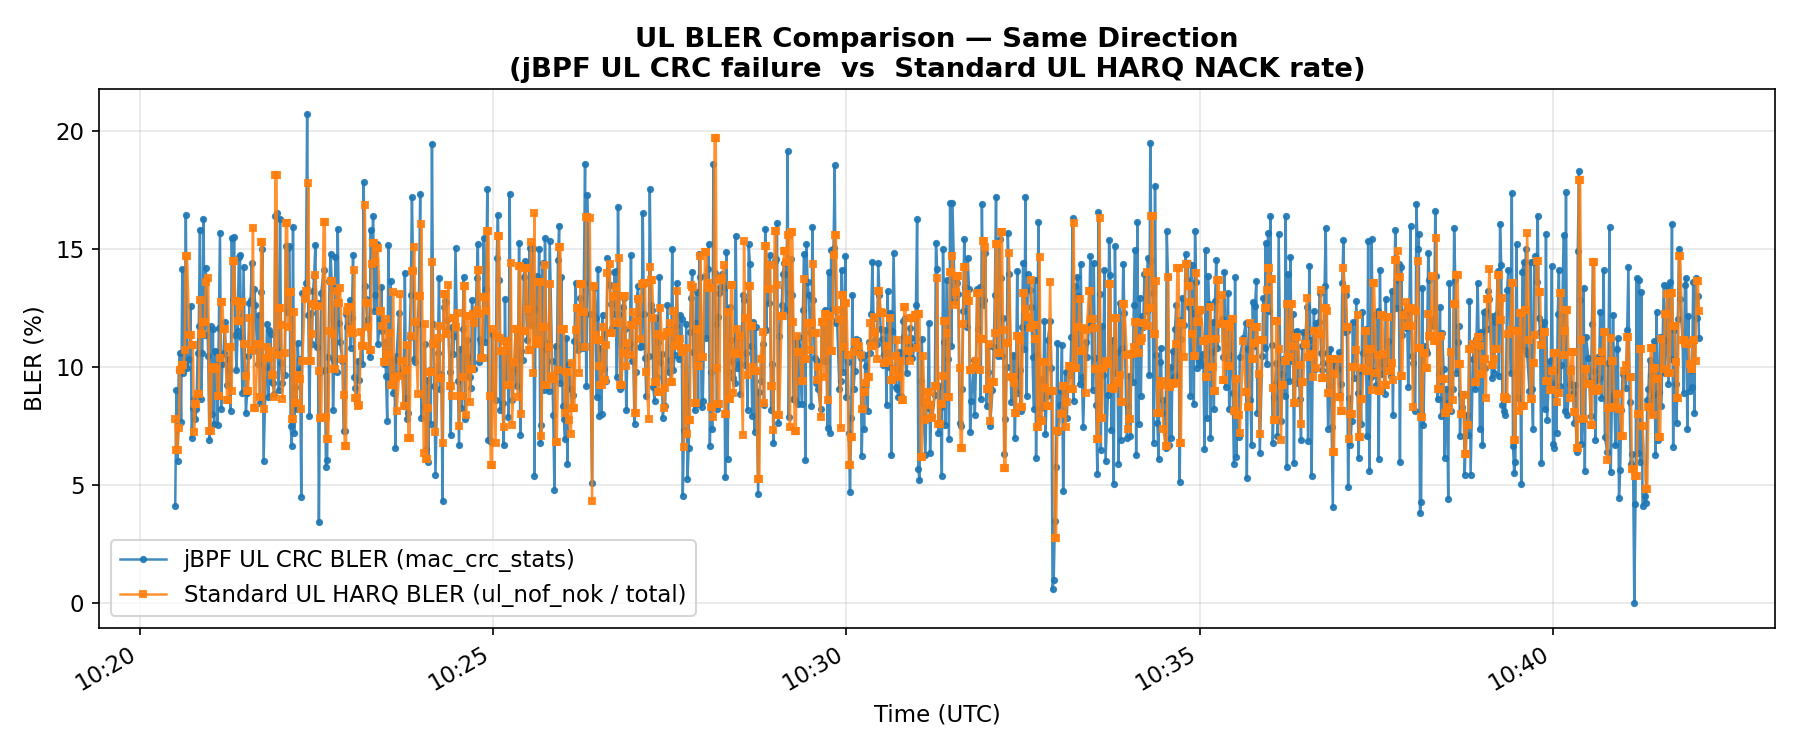
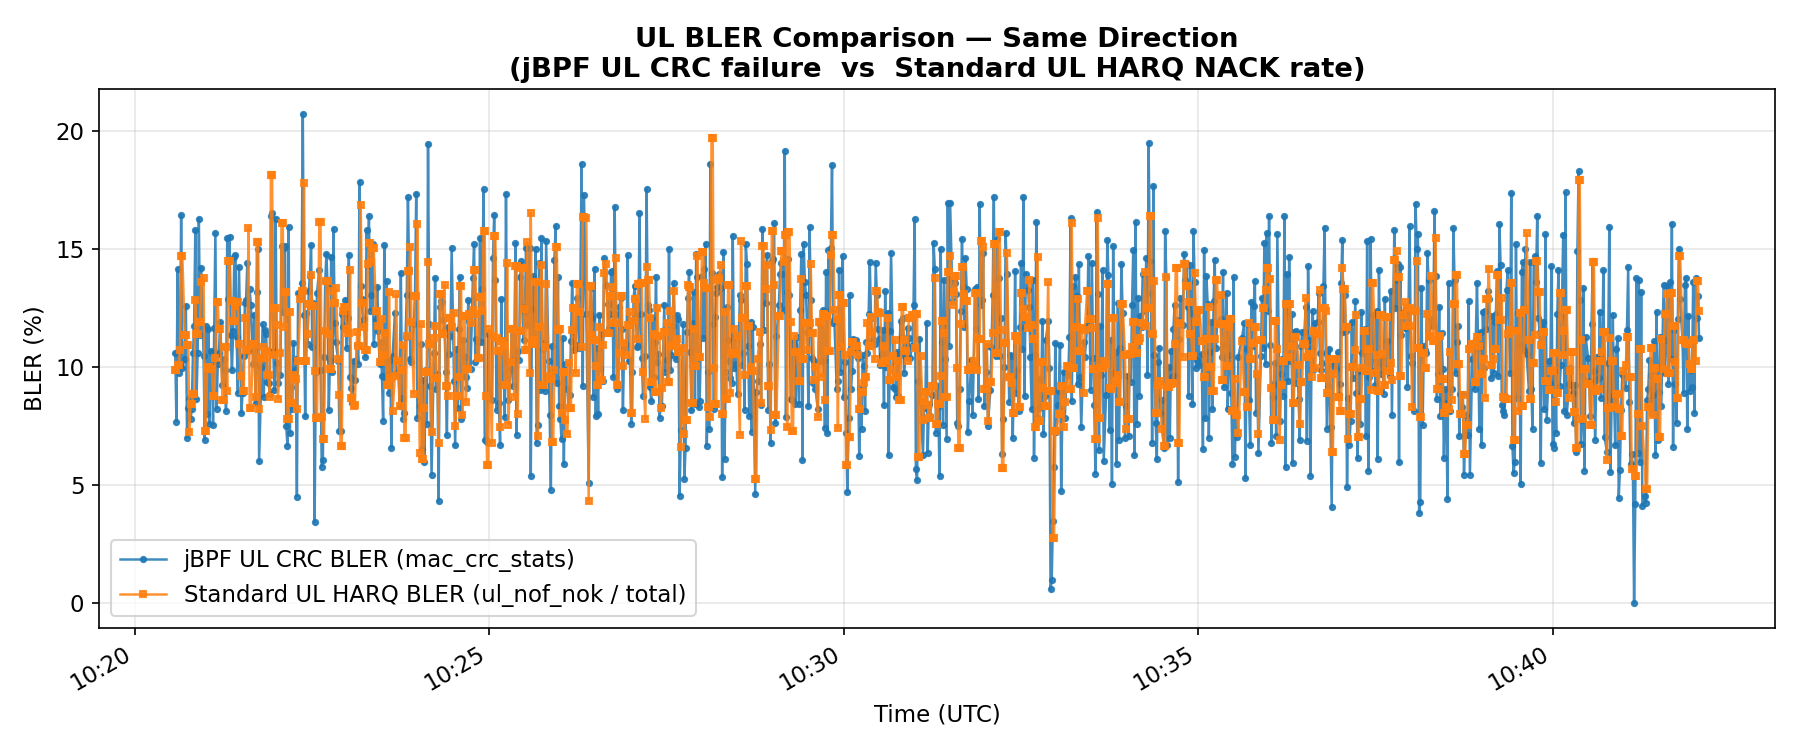
Auto-detect session gap and remove it from all plots
Added session boundary detection: finds the largest gap in the
standard ue time series (>30 s) and discards all data before it,
eliminating jumps from previous gNB runs stored in the database.
The 29-minute gap between sessions (09:50 to 10:20) is now
removed automatically without needing --start on the CLI.
Regenerated all 26 plots gap-free.

diff --git a/scripts/extract_and_compare.py b/scripts/extract_and_compare.py
@@ -1178,7 +1178,32 @@ def main():
 
     std_ue = standard["ue"]
 
-    # Trim startup transients
+    # Auto-detect session boundary: find the largest gap in the standard ue
+    # time series and use the point after that gap as the session start.
+    # This removes data from previous gNB runs stored in the same database.
+    if not TIME_START and std_ue:
+        times = [to_epoch(r["time"]) for r in std_ue]
+        gaps  = [(times[i+1] - times[i], times[i+1])
+                 for i in range(len(times) - 1)]
+        max_gap, session_start = max(gaps, key=lambda x: x[0])
+        if max_gap > 30:   # only apply if the gap is larger than 30 s
+            print(f"  Detected session gap of {max_gap:.0f} s; "
+                  f"using data from "
+                  f"{datetime.fromtimestamp(session_start, tz=timezone.utc).strftime('%H:%M:%S')} onwards")
+            for table in ("ue", "cell", "du", "events"):
+                if standard.get(table):
+                    standard[table] = [
+                        r for r in standard[table]
+                        if to_epoch(r["time"]) >= session_start
+                    ]
+            for key in list(jbpf.keys()):
+                rows = jbpf[key]
+                if rows and "time" in rows[0]:
+                    jbpf[key] = [r for r in rows
+                                 if to_epoch(r["time"]) >= session_start]
+            std_ue = standard["ue"]
+
+    # Trim startup transients from the beginning of the identified session
     if not TIME_START and args.trim_startup > 0 and std_ue:
         cutoff = to_epoch(std_ue[0]["time"]) + args.trim_startup
         standard["ue"] = [r for r in std_ue if to_epoch(r["time"]) >= cutoff]
